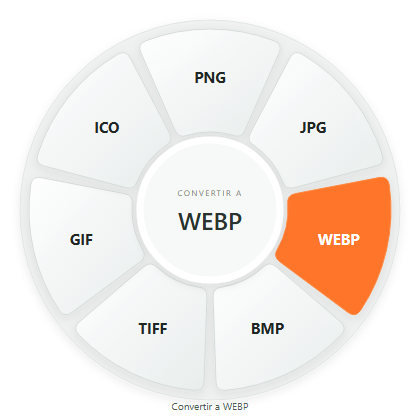
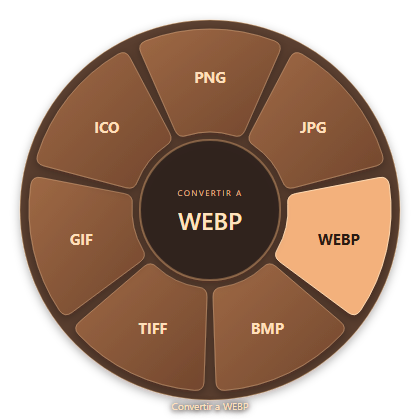
feat(wheel): match orange glass styling in Square 1.2.0

diff --git a/src/style.css b/src/style.css
@@ -684,7 +684,7 @@ footer i {
   height: 420px;
   position: relative;
   background: transparent;
-  color: #1c2422;
+  color: #f9ece0;
   user-select: none;
 }
 .wheel-ring {
@@ -696,9 +696,9 @@ footer i {
   overflow: visible;
 }
 .wheel-base {
-  fill: #edf0efd9;
+  fill: #503521ed;
   filter: url(#wheel-shadow);
-  stroke: #e1e6e4;
+  stroke: #e8ae7966;
   stroke-width: 1;
 }
 .wheel-segment {
@@ -706,14 +706,14 @@ footer i {
   outline: none;
 }
 .wheel-segment path {
-  fill: url(#wheel-paper);
-  stroke: #d4dcda;
+  fill: url(#wheel-glass);
+  stroke: #edba8e73;
   stroke-width: 1;
   filter: url(#wheel-shadow);
   transition: fill 0.12s;
 }
 .wheel-segment text {
-  fill: #202624;
+  fill: #ffdfba;
   font-size: 15px;
   font-weight: 650;
   stroke: none;
@@ -721,20 +721,24 @@ footer i {
 }
 .wheel-segment.selected path,
 .wheel-segment:focus-visible path {
-  fill: #ff7629;
-  stroke: #ff8a43;
+  fill: #f3b17c;
+  stroke: #ffd9b0;
 }
 .wheel-segment.selected text,
 .wheel-segment:focus-visible text {
-  fill: #fff;
+  fill: #291b12;
 }
 .wheel-segment[aria-disabled="true"] {
   cursor: wait;
 }
+.wheel-segment:focus-visible path {
+  stroke: #ffe1be;
+  stroke-width: 3;
+}
 .wheel-core {
-  fill: #f7f9f8;
-  stroke: #fff;
-  stroke-width: 7;
+  fill: #30231cf2;
+  stroke: #e4aa7666;
+  stroke-width: 2;
   filter: url(#wheel-shadow);
 }
 .wheel-center {
@@ -748,26 +752,26 @@ footer i {
   justify-content: center;
   flex-direction: column;
   pointer-events: none;
-  color: #2e3834;
+  color: #f9ece0;
 }
 .wheel-center small {
   font-size: 8px;
   letter-spacing: 1.5px;
-  color: #7c8881;
+  color: #e5b98e;
   margin-bottom: 8px;
 }
 .wheel-center strong {
   font-size: 24px;
   font-weight: 550;
   line-height: 1.1;
-  color: #29332f;
+  color: #ffe2bf;
 }
 .wheel-page {
   pointer-events: auto;
   border: 0;
   background: transparent;
   font-size: 9px;
-  color: #7d8982;
+  color: #f1cba7;
   margin-top: 10px;
   padding: 3px 10px;
 }
@@ -783,11 +787,11 @@ footer i {
   text-align: center;
   font-size: 10px;
   line-height: 13px;
-  color: #4c5a53;
-  text-shadow: 0 1px 3px #fffffff2;
+  color: #ffe1bf;
+  text-shadow: 0 1px 4px #170c06, 0 0 8px #170c06;
 }
 .wheel-caption.error {
-  color: #9b3b1e;
+  color: #ffc2a6;
 }
 .settings-panel {
   max-height: calc(100vh - 50px);

diff --git a/src/Wheel.tsx b/src/Wheel.tsx
@@ -124,13 +124,13 @@ export default function Wheel() {
               dx="0"
               dy="3"
               stdDeviation="5"
-              floodColor="#3a3429"
-              floodOpacity=".09"
+              floodColor="#120b06"
+              floodOpacity=".32"
             />
           </filter>
-          <linearGradient id="wheel-paper" x1="0" y1="0" x2="1" y2="1">
-            <stop stopColor="#fff" stopOpacity=".94" />
-            <stop offset="1" stopColor="#e9eeed" stopOpacity=".92" />
+          <linearGradient id="wheel-glass" x1="0" y1="0" x2="1" y2="1">
+            <stop stopColor="#a36c47" stopOpacity=".94" />
+            <stop offset="1" stopColor="#75482e" stopOpacity=".92" />
           </linearGradient>
         </defs>
         <circle className="wheel-base" cx="210" cy="210" r="190" />

diff --git a/README.md b/README.md
@@ -1,10 +1,10 @@
 <p align="center"><img src="docs/icon.svg" width="84" alt="Square"></p>
 <h1 align="center">Square</h1>
 <p align="center">Un archivo. Otra posibilidad.<br>Un convertidor local, pequeño en la pantalla y directo en lo que hace.<br>Imágenes, audio, video y documentos. Sin cuentas ni archivos en la nube.</p>
-<p align="center"><a href="https://github.com/xXKuroiKenshiXx/Square/releases/tag/v0.2.0"><b>Descargar Square</b></a> · <a href="docs/demo.mp4"><b>Ver el video</b></a> · <a href="#rueda-rápida"><b>Shift + Espacio</b></a></p>
+<p align="center"><a href="https://github.com/xXKuroiKenshiXx/Square/releases/tag/v1.2.0"><b>Descargar Square</b></a> · <a href="docs/demo.mp4"><b>Ver el video</b></a> · <a href="#rueda-rápida"><b>Shift + Espacio</b></a></p>
 <p align="center"><a href="https://github.com/xXKuroiKenshiXx/Square/actions/workflows/build.yml"><img src="https://github.com/xXKuroiKenshiXx/Square/actions/workflows/build.yml/badge.svg" alt="Build"></a> <img src="https://img.shields.io/badge/license-GPL--3.0--or--later-e6ba94?labelColor=252722" alt="GPL 3.0 or later"> <img src="https://img.shields.io/badge/Windows%20%2B%20Linux-local%20by%20design-e6ba94?labelColor=252722" alt="Windows y Linux"></p>
-<p align="center"><a href="docs/demo.mp4"><img src="docs/demo.webp" width="960" alt="Square: selección de formato, conversión local, rueda rápida y configuración del atajo"></a></p>
-<p align="center"><sub><a href="docs/demo.mp4">Video promocional · 35 segundos</a> · Vistas reales de React con archivos de muestra y conversiones reales del motor Rust.<br>El selector de archivos y el enlace con la ventana se preparan para la grabación. No es un benchmark ni una grabación del Explorador. <a href="docs/MEDIA.md">Cómo se grabó</a>.</sub></p>
+<p align="center"><img src="docs/app.png" width="480" alt="Square 1.2.0"><img src="docs/wheel.png" width="320" alt="Rueda rápida naranja de Square 1.2.0"></p>
+<p align="center"><sub><a href="docs/demo.mp4">Demo histórica 0.2 · 35 segundos</a> · Vistas reales de React con archivos de muestra y conversiones reales del motor Rust.<br>El selector de archivos y el enlace con la ventana se preparan para la grabación. No es un benchmark ni una grabación del Explorador. <a href="docs/MEDIA.md">Cómo se grabó</a>.</sub></p>
 
 ## Menos pasos
 
@@ -17,20 +17,20 @@
 
 ## Descargar
 
-Square **0.2 es una versión preliminar**. Binarios x64 sin firma digital. Los motores están incluidos en el ejecutable; por eso el portable es más grande que la interfaz.
+Square **1.2.0**. Binarios x64 sin firma digital. Los motores están incluidos en el ejecutable; por eso el portable es más grande que la interfaz.
 
 | Sistema | Descarga | Uso |
 | --- | --- | --- |
-| Windows 10/11 x64 | [Portable](https://github.com/xXKuroiKenshiXx/Square/releases/download/v0.2.0/Square-0.2.0-portable.zip) | Extraer el ZIP y abrir su único `.exe`; necesita WebView2 instalado. |
-| Windows 10/11 x64 | [Instalador NSIS](https://github.com/xXKuroiKenshiXx/Square/releases/download/v0.2.0/Square_0.2.0_x64-setup.exe) | Instala para tu usuario y puede descargar WebView2 si falta. |
-| Linux x64 | [AppImage](https://github.com/xXKuroiKenshiXx/Square/releases/download/v0.2.0/Square_0.2.0_amd64.AppImage) | Dar permiso de ejecución y abrir. La release local tiene base Ubuntu 24.04. |
-| Fuentes y verificación | [Release completa](https://github.com/xXKuroiKenshiXx/Square/releases/tag/v0.2.0) | Código, fuentes de los motores, versiones y SHA-256 junto a los binarios. |
+| Windows 10/11 x64 | [Portable](https://github.com/xXKuroiKenshiXx/Square/releases/download/v1.2.0/Square-1.2.0-portable.zip) | Extraer el ZIP y abrir su único `.exe`; necesita WebView2 instalado. |
+| Windows 10/11 x64 | [Instalador NSIS](https://github.com/xXKuroiKenshiXx/Square/releases/download/v1.2.0/Square_1.2.0_x64-setup.exe) | Instala para tu usuario y puede descargar WebView2 si falta. |
+| Linux x64 | [AppImage](https://github.com/xXKuroiKenshiXx/Square/releases/download/v1.2.0/Square_1.2.0_amd64.AppImage) | Dar permiso de ejecución y abrir. Compilado sobre Ubuntu 22.04. |
+| Fuentes y verificación | [Release completa](https://github.com/xXKuroiKenshiXx/Square/releases/tag/v1.2.0) | Código, fuentes de los motores, versiones y SHA-256 junto a los binarios. |
 
 ```bash
-chmod +x Square_0.2.0_amd64.AppImage
-./Square_0.2.0_amd64.AppImage
+chmod +x Square_1.2.0_amd64.AppImage
+./Square_1.2.0_amd64.AppImage
 # Si no tenés FUSE:
-./Square_0.2.0_amd64.AppImage --appimage-extract-and-run
+./Square_1.2.0_amd64.AppImage --appimage-extract-and-run
 ```
 
 La apariencia transparente necesita un compositor. La compatibilidad de AppImage depende de las bibliotecas base de la distribución; no se garantiza cualquier Linux. El flujo de CI compila sobre Ubuntu 22.04.

diff --git a/odd/tasks/orange-wheel-1.2.md b/odd/tasks/orange-wheel-1.2.md
@@ -9,8 +9,8 @@ Branch: feat/orange-wheel-1.2. Delivery: single release. Checks: version consist
 - S4: "modificale la rueda y rapida esa que ayuuda a configurar rapido de color naranja y no blanca osea que tenga la misma estetica del programa" — replace the wheel's white surfaces with the application's warm orange/dark glass palette, preserving conversion, keyboard access and pagination.
 
 ## Tasks
-- T1 [S1,S2] inline — complete: restored, all version metadata and visible UI at 1.0.0; source tag ready. Risk: item 5 (release metadata).
-- T2 [S4] inline — wheel palette and focused UI regression pending. Risk: none (visual styling).
+- T1 [S1,S2] inline — complete: restored, all version metadata and visible UI at 1.0.0; source tag v1.0.0 at 3600787. Risk: item 5 (release metadata).
+- T2 [S4] inline — complete: orange/dark glass wheel; build and complete UI regression passed. Risk: none (visual styling).
 - T3 [S3] inline + independent verifier — 1.2.0 packages, release links and Desktop portable pending. Risk: item 5 (release).
 
 ## Log
@@ -21,3 +21,5 @@ Branch: feat/orange-wheel-1.2. Delivery: single release. Checks: version consist
 - Oval 0.5.3 was independently confirmed published with 12 assets and every release job successful.
 
 - T1 checks: UI regression first failed on stale v0.2; metadata/build and complete UI smoke test then passed at 1.0.0. Baseline normalization complete; rollback is the version metadata/UI import and its tests.
+
+- T2: the palette regression failed on the white wheel, then passed after the orange-glass change. Conversion, keyboard dismissal, settings, pagination and single-format input remain covered. Captures visually inspected. UI version is read directly from package metadata.

diff --git a/docs/MEDIA.md b/docs/MEDIA.md
@@ -17,3 +17,6 @@ node scripts/record-demo.mjs
 ```
 
 Requiere los motores preparados y FFmpeg en PATH. Los archivos temporales quedan en `release/demo-recording/`, que está excluido de Git. La grabación abre un servidor de demostración exclusivamente en `127.0.0.1`; no agrega un servidor a la aplicación distribuida.
+
+Las capturas app.png y wheel.png muestran Square 1.2.0 y su rueda naranja. El video y la vista animada se conservan como demostración histórica de 0.2; su rueda clara no representa el diseño actual.
+

diff --git a/CHANGELOG.md b/CHANGELOG.md
@@ -1,5 +1,9 @@
 # Cambios
 
+## 1.2.0 — 2026-10-19
+- Rueda rápida con cristal oscuro, superficies naranja cálido y selección naranja pálido, coherente con la ventana principal.
+- Etiquetas claras y foco de teclado visible; conserva atajo, conversión y paginación.
+
 ## 1.0.0 — 2026-10-19
 - Base de numeración solicitada para Square, conservando las funciones de 0.2.0.
 - Versión completa sincronizada entre interfaz, Tauri, Rust y archivos de dependencias.
